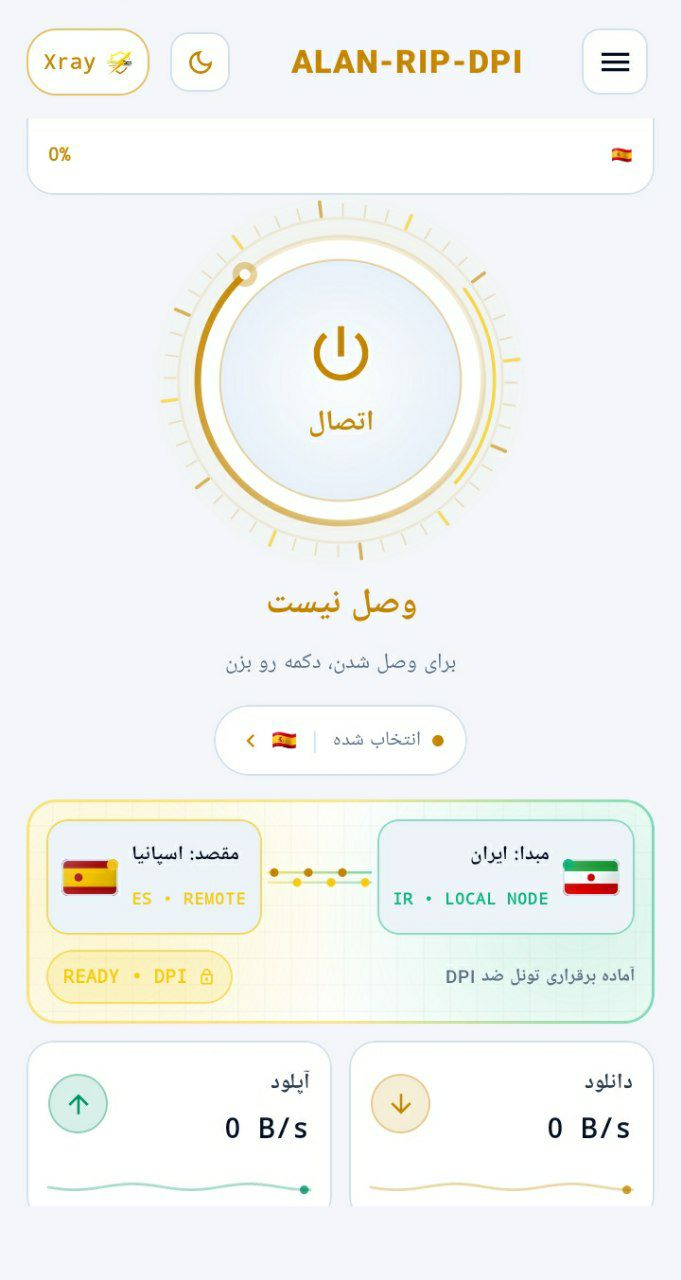
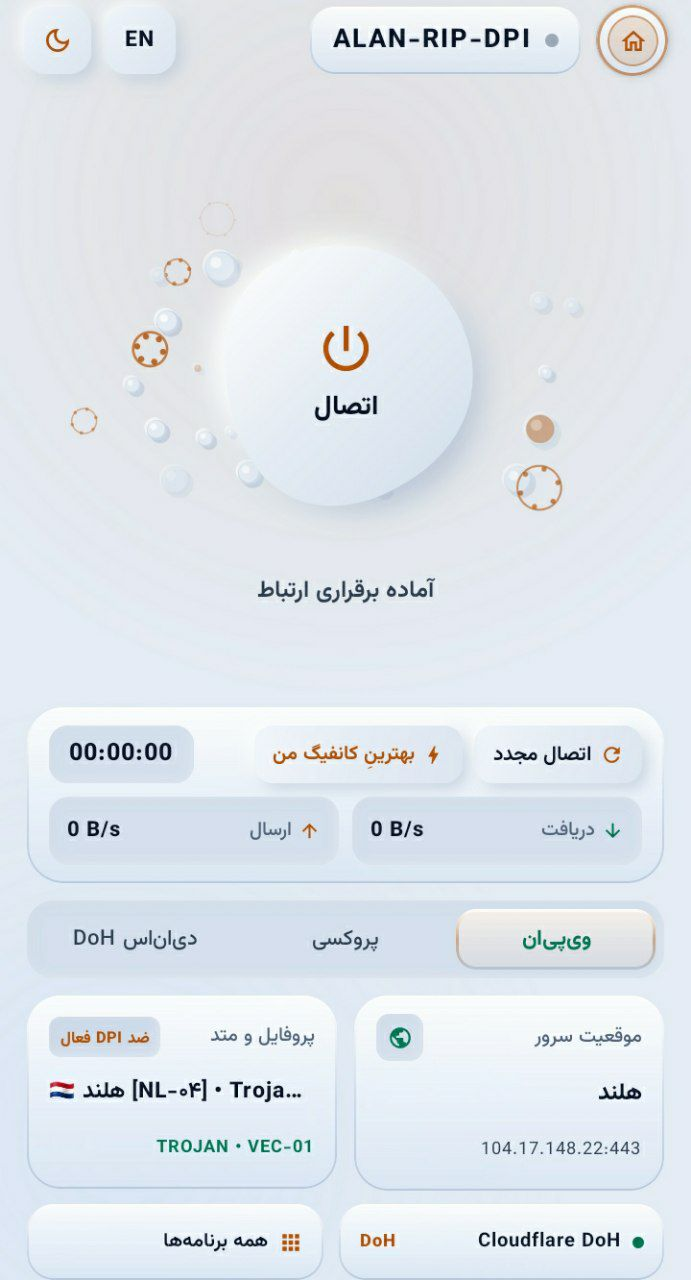
docs: update Persian README to v1.9.0 and refresh Dark/Light screenshots

diff --git a/README.md b/README.md
@@ -4,13 +4,13 @@
 
 **کلاینت بومی و مهندسیشده اندروید جهت دور زدن بازرسی عمیق بسته (DPI)، اسکن هوشمند DoH و مدیریت پیشرفته تونل شبکه**
 
-![Version](https://img.shields.io/badge/version-v1.5.1-blue.svg?style=flat-square)
-![Platform](https://img.shields.io/badge/platform-Android%208.0%2B-3DDC84.svg?style=flat-square&logo=android&logoColor=white)
+![Version](https://img.shields.io/badge/version-v1.9.0-blue.svg?style=flat-square)
+![Platform](https://img.shields.io/badge/platform-Android%207.0%2B-3DDC84.svg?style=flat-square&logo=android&logoColor=white)
 ![Kotlin](https://img.shields.io/badge/kotlin-Jetpack%20Compose%20%2B%20JNI-7F52FF.svg?style=flat-square&logo=kotlin&logoColor=white)
 ![Core](https://img.shields.io/badge/core-Xray%20v26%20%2B%20libalan--oob-D4AF37.svg?style=flat-square)
 ![License](https://img.shields.io/badge/license-MIT-green.svg?style=flat-square)
 
-[**دانلود فایل نصبی APK (Releases)**](../../releases) · [**گزارش باگ و پیشنهاد**](../../issues) · [**کانال تلگرام (@LabAlan)**](https://t.me/LabAlan)
+[**دانلود فایل نصبی APK (Releases)**](../../releases) · [**نسخه ویندوز**](https://github.com/DrAlanK/Alan-RIP-Dpi-Windows) · [**گزارش باگ و پیشنهاد**](../../issues) · [**کانال تلگرام (@LabAlan)**](https://t.me/LabAlan)
 
 <br>
 
@@ -19,12 +19,12 @@
     <td align="center" width="50%">
       <img src="assets/AlanRIPDpi-Dark.jpg" alt="Alan-RIP-Dpi Dark Mode" width="320">
       <br>
-      <sub><b>نمای پوسته تاریک نئومورفیک (Dark Theme)</b></sub>
+      <sub><b>نمای پوسته تاریک هیبریدی (Liquid Glass + Neumorphism)</b></sub>
     </td>
     <td align="center" width="50%">
       <img src="assets/AlanRIPDpi-Light.jpg" alt="Alan-RIP-Dpi Light Mode" width="320">
       <br>
-      <sub><b>نمای پوسته روشن نئومورفیک (Light Theme)</b></sub>
+      <sub><b>نمای پوسته روشن هیبریدی (Liquid Glass + Neumorphism)</b></sub>
     </td>
   </tr>
 </table>
@@ -39,13 +39,13 @@
 
 | ردیف | بخش | شرح محتوا |
 | :--- | :--- | :--- |
-| **۱** | [معرفی اجمالی](#sec-intro) | معماری بومی اندروید، ۲۴ بردار چندریختی ضد DPI، موتور ۶ مسیره موازی و هسته DoH |
-| **۲** | [قابلیتهای کلیدی](#sec-features) | مشخصات فنی، رابط کاربری نئومورفیک، مدیریت اشتراکها، QR، رادار IP تمیز و اسکنر DoH |
-| **۳** | [دانلود و نصب سریع](#sec-quickstart) | راهنمای دریافت فایل APK متناسب با پردازنده، مجوزها و برقراری اتصال هوشمند |
-| **۴** | [ساخت از سورس](#sec-build) | پیشنیازهای Android SDK، کامپایل با Gradle و تولید خودکار خروجیهای APK |
-| **۵** | [پرسشهای رایج و رفع مشکل](#sec-faq) | بهینهسازی باتری در پسزمینه، رفع اختلال DNS اپراتورها با DoH و عیبیابی |
+| **۱** | [معرفی اجمالی](#sec-intro) | معماری بومی اندروید، ۲۹ بردار چندریختی ضد DPI، بهینهسازی سختافزار و نگهبان حافظه |
+| **۲** | [قابلیتهای کلیدی](#sec-features) | رابط هیبریدی شیشهای-نئومورفیک، حالت پروکسی خالص، مسیریابی و DNS، اسکنر چندهدفه و خروجی لاگ |
+| **۳** | [دانلود و نصب سریع](#sec-quickstart) | راهنمای دریافت فایل APK متناسب با پردازنده، امضای رلیز و برقراری اتصال هوشمند |
+| **۴** | [ساخت از سورس](#sec-build) | پیشنیازهای Android SDK، کامپایل با Gradle و تولید خودکار هر ۴ خروجی APK |
+| **۵** | [پرسشهای رایج و رفع مشکل](#sec-faq) | پنل مخفی سختافزار، پیام Play Protect، بهینهسازی باتری و رفع اختلال DNS |
 | **۶** | [قدردانی و مشارکتکنندگان](#sec-ack) | تقدیر از همکاریهای فنی و پروژههای زیرساختی متنباز |
-| **۷** | [مجوز انتشار و راههای ارتباطی](#sec-license) | قوانین کپیرایت، شرایط انتشار MIT و کانال رسمی تلگرام |
+| **۷** | [مجوز انتشار و راههای ارتباطی](#sec-license) | قوانین کپیرایت، شرایط انتشار MIT، نسخه ویندوز و کانال رسمی تلگرام |
 
 </div>
 
@@ -56,24 +56,25 @@
 
 ## ۱. معرفی اجمالی
 
-پروژه **Alan-RIP-Dpi Android** نسخه بومی (Native) و بهینهشده کلاینت ضد فیلترینگ آلن برای سیستمعامل اندروید است که با زبان **Kotlin**، فریمورک **Jetpack Compose**، کتابخانه بومی سطح کرنل (`libalan-oob.so`) و بر پایه هسته قدرتمند **Xray-core v26** توسعه یافته است. هدف اصلی این نرمافزار، ارائه یک اتصال پایدار، سریع و مقاوم در برابر اختلالات شدید شبکههای موبایل (همراه اول، ایرانسل، رایتل، مبیننت) و اینترنتهای خانگی بدون نیاز به درگیری کاربر با تنظیمات پیچیده فنی است.
+پروژه **Alan-RIP-Dpi Android** نسخه بومی (Native) و بهینهشده کلاینت ضد فیلترینگ آلن برای سیستمعامل اندروید است که با زبان **Kotlin**، فریمورک **Jetpack Compose**، کتابخانه بومی سطح کرنل (`libalan-oob.so`) و بر پایه هسته قدرتمند **Xray-core v26** توسعه یافته است. هدف اصلی این نرمافزار، ارائه یک اتصال پایدار، کممصرف و مقاوم در برابر اختلالات شدید شبکههای موبایل (همراه اول، ایرانسل، رایتل، مبیننت) و اینترنتهای خانگی بدون درگیر کردن کاربر با تنظیمات پیچیده فنی است.
 
-نقطه تمایز بنیادین این نرمافزار، ترکیب **۲۴ بردار چندریختی (Polymorphic Vectors) در لایه سوکت و تقطیع بستههای TLS** با **موتور مسابقه موازی ۶ مسیره (6-Lane Parallel Engine)** است؛ به گونهای که برخلاف کلاینتهای متداول که بردارها را به صورت تکبهتک تست میکنند یا در برابر فیلترینگ پویا دچار فریز شدن ترافیک (`Session Freeze` / `SocketTimeoutException`) میشوند، این موتور ۶ کانال مستقل را به صورت همزمان در یک هسته واحد ارزیابی کرده و با تزریق خودکار `TCP-DNS` و پالسهای نگهدارنده نشست، تونلی پیوسته و بدون افت سرعت ایجاد میکند.
+نقطه تمایز بنیادین نسخه **`v1.9.0`**، همگامسازی کامل با هسته ویندوز در قالب **۲۹ بردار چندریختی ضد DPI (`VEC-00` تا `VEC-28`)**، **موتور مسابقه موازی ۶ مسیره (6-Lane Parallel Engine)** با تستر واقعی دانلود/آپلود، **معماری بهینهشده کممصرف** و **نگهبان خودکار ۲۰ دقیقهای ضد نشتی حافظه (`AlanMemoryGuard`)** است؛ به گونهای که تونل در استفادههای طولانیمدت بدون افت سرعت، بدون داغ شدن دستگاه و بدون کرش پایدار میماند.
 
 **ارکان مهندسی معماری نرمافزار:**
-1. **موتور ۲۴ بردار چندریختی و پل تمامدوطرفه (`FullDuplexMutatorBridge`):** بهرهگیری همزمان از تکنیکهای `Zero-OOB` (برش چندگانه رکوردهای TLS و فرگمنت تطبیقی برای عبور از سرورهای حساس مانند Railway و CDN) و تزریق بایتهای خارج از باند (`MSG_OOB` از طریق JNI بومی `libalan-oob.so`) جهت عبور بینقص دستدهی `TLS 1.3 ClientHello` و پنهانسازی `SNI` از دید تجهیزات DPI.
-2. **موتور تصمیمگیرنده موازی ۶ مسیره (`6-Lane AutoPilot Engine`):** ارزیابی همزمان ۶ بردار و سرور بر روی پورتهای ایزوله با تست سریع `1-RTT HTTP Probe` از درون تونل رمزنگاریشده، پشتیبانی از انتخاب لوکیشن هدف از ریپازیتوری ابری گیتهاب و قفل کردن سریعترین مسیر در کسری از ثانیه.
-3. **موتور اختصاصی اسکن و اعمال دیاناس امن (`AlanDohEngine / DNSveil`):** اسکن موازی دهها سرور `DoH (DNS-over-HTTPS)` با پشتیبانی از فرمت باینری `RFC 8484 Wire` و `JSON` برای دور زدن مسمومیت DNS اپراتورها و امکان فعالسازی حالت مستقل `دیاناس DoH` بدون نیاز به سرور واسط.
-4. **سرویس شبکه سراسری ضد حلقه (`Loop-Immune Android VpnService`):** هدایت یکپارچه ترافیک TCP و UDP اپلیکیشنها از طریق رابط بومی `libhev-socks5-tunnel.so` همراه با جداسازی کامل پردازشهای خود برنامه (`addDisallowedApplication`) و مبدل داخلی `dns-out` برای تضمین جریان فوری دانلود و آپلود روی کانفیگهای WebSocket و CDN.
-5. **رابط کاربری نئومورفیک اصیل (Pure Borderless Neumorphism):** طراحی سهبعدی لمسی با تایپوگرافی رسمی **وزیرمتن (`Vazirmatn`)**، گوی اتصال مورفینگ زنده با ذرات مداری سهبعدی، چیدمان Bento در صفحه خانه و پشتیبانی آنی از دو پوسته تاریک (`#1E232E`) و روشن (`#E6ECF5`).
+1. **موتور ۲۹ بردار چندریختی و پل تمامدوطرفه (`FullDuplexMutatorBridge`):** مجهز به ۵ بردار نسل جدید (`VEC-24` تا `VEC-28`) برای عبور از سیاهچاله PMTU گیتویهای استانی (`<=1140B`) و محدودیت قطع جریان ۱۶ کیلوبایتی (`<=880B`)، ترکیب تکنیکهای `Zero-OOB` و `MSG_OOB` (`libalan-oob.so`)، بافرپول ۳۲ کیلوبایتی بدون فشار GC، تنظیم `TUN MTU=1360` / `TCP_MAXSEG=1220` و انتقال سریع Bulk پس از عبور از پنجره ۶۴ کیلوبایتی DPI.
+2. **موتور تصمیمگیرنده موازی ۶ مسیره با تستر واقعی پهنای باند:** ارزیابی همزمان ۶ بردار و سرور روی پورتهای ایزوله با تست پیوسته دانلود (`160KB`) و آپلود (`192KB`) جهت حذف پینگهای کاذب، انتخاب لوکیشن از مخزن ابری گیتهاب و قفل خودکار سریعترین مسیر.
+3. **نگهبان خودکار ضد نشتی حافظه (`AlanMemoryGuard`) و بهینهسازی سختافزار:** پایش دورهای هر **۲۰ دقیقه** (قابل تنظیم از ۱۰ تا ۶۰ دقیقه) و واکنش خودکار در شرایط فشار حافظه بدون کرش و بدون قطع VPN (هرس کش DNS، بافرپول، لاگهای اضافه و سوکتهای مرده)، تنظیم هسته Go روی `GOMAXPROCS=2` و `GOGC=150`، توقف کامل رندر انیمیشن UI در پسزمینه (`Lifecycle.State.RESUMED`) و Watchdog هوشمند غیرفعال هنگام عبور ترافیک کاربر.
+4. **موتور مسیریابی پیشرفته، DNS و اسکنر DoH (`AlanDohEngine / DNSveil`):** اسکن موازی سرورهای `DoH (RFC 8484 / JSON)`، تنظیمات مجزای `Remote / Domestic / Fallback DNS`، حالتهای مسیریابی (`دور زدن ایران` / `دور زدن LAN` / `سراسری`)، مسدودسازی تبلیغات (`AdBlock`) و `QUIC (UDP 443)` و ورود مستقیم لیست دامنه/آیپی بایپس از فایل `.txt`.
+5. **رابط کاربری هیبریدی (Liquid Glass + Pure Tactile Neumorphism):** ترکیب کارتهای شیشهای مات با دکمه اتصال نئومورفیک و حبابهای سهبعدی با سرعت پویا در هر وضعیت، دکمه شیشهای معلق با **جایگاه مگنتی در گوشه بالا** و سایدبار شیشهای قابل جابهجایی و تغییر طول، همراه با فونت رسمی **وزیرمتن (`Vazirmatn`)** و دو پوسته تاریک و روشن.
 
-| مشخصه فنی | پیادهسازی در Alan-RIP-Dpi Android (v1.5.1) |
+| مشخصه فنی | پیادهسازی در Alan-RIP-Dpi Android (v1.9.0) |
 | :--- | :--- |
-| **تکنولوژی توسعه و رابط کاربری** | Native Kotlin + Jetpack Compose + Pure Tactile Neumorphism (فونت وزیرمتن) |
-| **هسته مرکزی تونل و کتابخانههای بومی** | Xray-core v26.10.29 + `libalan-oob.so` (JNI) + `libhev-socks5-tunnel.so` |
-| **موتور ضد DPI و تصمیمگیری** | ۲۴ بردار چندریختی (`VEC-00` تا `VEC-23`) + موتور مسابقه موازی ۶ مسیره |
-| **زیرساخت DNS و کشف لبه** | موتور `AlanDohEngine` (DNSveil) + اسکنر چندسابنتی IP تمیز کلادفلر + `dns-out` (TCP-DNS) |
-| **لایه شبکه مجازی سیستمعامل** | Android Native `VpnService` (TUN Interface بدون نیاز به Root با محافظت در برابر حلقه) |
+| **تکنولوژی توسعه و رابط کاربری** | Native Kotlin + Jetpack Compose + Hybrid Liquid Glass & Neumorphism (فونت وزیرمتن) |
+| **هسته مرکزی و کتابخانههای بومی** | Xray-core v26 (`GOMAXPROCS=2`, `GOGC=150`) + `libalan-oob.so` + `libhev-socks5-tunnel.so` |
+| **موتور ضد DPI و تستر ترافیک** | ۲۹ بردار چندریختی (`VEC-00` تا `VEC-28`) + موتور ۶ مسیره با تست واقعی دانلود/آپلود |
+| **پروتکلهای پشتیبانیشده** | `VLESS`, `VMess`, `Trojan`, `Shadowsocks`, `SOCKS5/4`, `AnyConnect`, `IKEv2`, `L2TP` |
+| **مسیریابی، DNS و پایداری** | Routing/DNS کامل + ورود فایل بایپس `.txt` + `AlanDohEngine` + نگهبان ۲۰ دقیقهای حافظه |
+| **حالتهای شبکه** | تونل کامل `VpnService` (با تفکیک برنامهها) + حالت پروکسی خالص (بدون `VpnService`) + `DoH Veil` |
 
 </div>
 
@@ -84,19 +85,27 @@
 
 ## ۲. قابلیتهای کلیدی
 
-- **سه حالت عملیاتی مستقل (`ویپیان` | `پروکسی` | `دیاناس DoH`):** امکان سوییچ آنی در صفحه اصلی بین تونل کامل سراسری (`VPN`)، حالت پروکسی محلی (`SOCKS5 / HTTP`) و حالت خالص `DoH-Veil` (رفع اختلال DNS و بازگشایی سرویسهای مسدودشده با ترکیب DoH سالم و فرگمنت بدون نیاز به سرور VPN).
-- **انتخابگر هوشمند لوکیشن در حالت خودکار:** اتصال مستقیم به مخزن ابری گیتهاب کاملاً مجزا از کانفیگهای شخصی، همراه با دریافت گزارش زنده اسکن (`Alan-RIP-Dpi-Report.json`) و امکان انتخاب کشور مقصد یا حالت «سریعترین لوکیشن» از منوی صفحه خانه.
-- **مدیریت پیشرفته کانفیگها و اشتراکها به سبک استاندارد v2rayNG:**
-  - تفکیک و دستهبندی خودکار کانفیگها بر اساس **گروه سابسکریپشن (`Subscription Groups`)** و کانفیگهای دستی.
-  - پشتیبانی کامل از **اسکن کد QR با دوربین**، **خواندن کد QR از تصاویر گالری** و تولید کد QR قابل اشتراکگذاری برای هر پروفایل (مبتنی بر موتور `ZXing`).
-  - نمایش دقیق مشخصات فنی هر نود (`VLESS / VMess / Trojan / SS`، بستر `ws / grpc / tcp / httpupgrade / xhttp`، لایه امنیتی `tls / reality` و بردار ضد DPI).
-  - قابلیت انتخاب چندتایی (`Multi-Select`)، حذف نودهای تبلیغاتی/اطلاعیه سابسکریپشنها، پینگ واقعی تونل (`Real-Ping`) و ارسال یکجای کل مخزن به آزمایشگاه DPI.
-- **آزمایشگاه موازی متد ضد DPI (`6-Lane DPI Lab`):** تست هوشمند و همزمان ۲۴ بردار ضد فیلتر بر روی یک کانفیگ، چند کانفیگ انتخابی یا کل مخزن، همراه با قابلیت تزریق خودکار IP تمیز کلادفلر برای دامنههای `.pages.dev` و `.workers.dev` و قفل مستقیم متد برنده.
-- **رادار IP تمیز کلادفلر و اسکنر DoH (`DNSveil`):**
-  - اسکن فوقسریع سابنتهای کلادفلر (از مخزن گیتهاب، ۲۲ سابنت پیشفرض یا رنج CIDR دلخواه) و ساخت کلونهای متعدد روی کانفیگها.
-  - اسکن موازی بیش از ۲۰ سرور معتبر جهانی و داخلی DoH، سنجش پینگ و صحت آیپی برگشتی روی دامنههای هدف (`github.com`، `youtube.com` و...)، امکان افزودن مخزن DoH سفارشی و اعمال مستقیم روی شبکه.
-- **پایداری ویژه شبکههای موبایل و حذف تایماوت نشست:** مجهز به مکانیزم `soTimeout = 0` پس از دستدهی اولیه، پالس `heartbeatPeriod = 20` در لایه WebSocket و پایشگر خودترمیمگر ۱۸ ثانیهای (`Self-Healing Watchdog`) برای جلوگیری از قطع شدن ارتباط در استفادههای طولانیمدت.
-- **کنسول لاگ عمیق مهندسی (`Deep Diagnostic Console`):** ثبت لحظهای جزئیات سطح پکت شامل سایز رکوردهای `TLS ClientHello`، عملکرد پل `DPI-BRIDGE`، رزولوشن `DNS / DoH`، انتخاب `Clean-IP` و رویدادهای هسته `Xray` با قابلیت فیلتر بر اساس دستهبندی و جستجوی متنی.
+- **سه حالت عملیاتی مستقل (`ویپیان` | `پروکسی` | `دیاناس DoH`):**
+  - **حالت ویپیان (`AlanTUN`):** تونل سراسری با `TUN MTU=1360` و **تفکیک دائمی برنامهها (`Per-App Proxy`)** در سه حالت همه برنامهها، فقط انتخابیها (`Include`) و مستثنیکردن (`Exclude`).
+  - **حالت پروکسی خالص (`Proxy-Only`):** بدون فراخوانی `VpnService` اندروید؛ ترافیک مستقیماً روی پورتهای محلی `SOCKS5` و `HTTP` نمایشدادهشده در دسترس قرار میگیرد.
+  - **حالت مستقل `دیاناس DoH`:** دور زدن مسمومیت DNS اپراتورها با اسکن و قفل سالمترین سرور DoH.
+- **رابط کاربری هیبریدی شیشهای-نئومورفیک و منوی مگنتی:**
+  - دکمه اتصال با **حبابهای سهبعدی با سرعت پویا** متناسب با وضعیت (آماده، در حال اتصال، متصل، در حال قطع) و انتقال نرم `در حال قطع اتصال...`.
+  - دکمه شیشهای معلق با **جایگاه مگنتی کنار `ALAN-RIP-DPI`**؛ با کشیدن در کل صفحه جابهجا میشود، با نزدیک شدن به گوشه بالا در جایش قفل میشود و در حالت باز، طول (ارتفاع) آن با دستگیره پایینی قابل تغییر است و تا لمس `✕` باز میماند.
+- **لیست کانفیگها به سبک ساده و بهینه `v2rayNG`:**
+  - کارتهای نئومورفیک خلوت و سریع با نوار رنگی انتخاب، تست پینگ فوری با لمس مستقیم عدد پینگ و تفکیک خودکار گروههای اشتراک (`Subscription Groups`).
+  - پشتیبانی کامل از **اسکن QR با دوربین و گالری**، تولید QR اشتراکگذاری، انتخاب چندتایی (`Multi-Select`) و ارسال مستقیم کانفیگهای انتخابشده به اسکنر متد.
+- **آزمایشگاه موازی متد ضد DPI با انتخاب چند کانفیگ دلخواه:**
+  - امکان انتخاب تکی، **انتخاب چند کانفیگ دلخواه از مخزن**، **ورود مستقیم لینکهای دلخواه به صف اسکنر** یا اسکن کل مخزن.
+  - منوی کشویی زیبا (`ModalBottomSheet`) برای انتخاب تکی/چندتایی متدها (۵ متد جدید، بدون OOB یا همه ۲۹ متد) همراه با دکمه اسکن نئومورفیک و وضعیت پویا پس از اتصال/قطع اتصال.
+- **تنظیمات کامل مسیریابی (Routing)، DNS و ورود لیست بایپس از فایل:**
+  - حالتهای `دور زدن ایران و LAN`، `فقط LAN` و `سراسری`، انتخاب `DomainStrategy`، مسدودسازی تبلیغات (`AdBlock`)، مسدودسازی `QUIC (UDP 443)` و کنترل `Sniffing`.
+  - تنظیم سرورهای `Remote DNS`، `DNS داخلی ایران`، `Fallback DNS`، استراتژی IPv4/IPv6 و **ورود لیست دامنهها و IPهای Direct (بایپس)، Proxy و Block از فایل `.txt`**.
+- **پنل مخفی مدیریت سختافزار و نشتی حافظه:**
+  - با **۵ بار ضربه روی لوگوی `ALAN-RIP-DPI`** در نوار بالا باز میشود و مصرف لحظهای CPU، Java Heap، Total RSS، تعداد File Descriptorهای باز، Threadها، دما/جریان باتری، زمان چک ۲۰ دقیقهای بعدی و دکمه پاکسازی و `GC` فوری را نمایش میدهد.
+- **کنترل پنل زنده نوتیفیکیشن و کنسول لاگ با خروجی فایل (`.log`):**
+  - نمایش لحظهای سرعت دانلود/آپلود و نام کانفیگ در نوتیفیکیشن همراه با دکمههای سریع **قطع اتصال**، **اتصال مجدد** و **بهترین سرور**.
+  - کنسول لاگ دستهبندیشده (شبکه، Xray، DNS/حافظه، متد/تست، خطاها) با جستجو و **ذخیره مستقیم کل لاگها به صورت فایل `.log`**.
 
 </div>
 
@@ -109,13 +118,14 @@
 
 برای نصب و راهاندازی سریع برنامه بر روی گوشی یا تبلت اندرویدی خود، مراحل زیر را دنبال کنید:
 
-1. وارد بخش [Releases](../../releases) در همین مخزن شوید و آخرین نسخه فایل نصبی متناسب با معماری پردازنده دستگاه خود را دانلود نمایید:
-   - **`Alan-RIP-Dpi-v1.5.1-arm64-v8a-release.apk`**: مناسب اکثر گوشیهای جدید و ۶۴ بیتی *(نسخه پیشنهادی و کمحجم)*
-   - **`Alan-RIP-Dpi-v1.5.1-armeabi-v7a-release.apk`**: مناسب گوشیهای قدیمیتر ۳۲ بیتی
-   - **`Alan-RIP-Dpi-v1.5.1-universal-release.apk`**: نسخه کامل شامل تمام معماریهای پردازنده (`arm64`, `armv7`, `x86_64`)
-2. فایل APK دانلودشده را نصب کرده و برنامه **Alan-RIP-Dpi** را اجرا کنید.
-3. از بخش پایینی صفحه اصلی، میتوانید در کاشی **«موقعیت سرور»** لوکیشن دلخواه ریپازیتوری خودکار را انتخاب کنید، یا از کاشی **«پروفایل و متد»** یکی از کانفیگهای شخصی خود را برگزینید.
-4. گوی بزرگ **اتصال** در مرکز صفحه را لمس کنید. در اولین اجرا، مجوز ایجاد اتصال شبکه (`VpnService`) را در پنجره سیستمعامل اندروید تایید نمایید تا تونل ضد DPI فعال شود.
+1. وارد بخش [Releases](../../releases) در همین مخزن شوید و فایل نصبی متناسب با معماری پردازنده دستگاه خود را دانلود نمایید:
+   - **`Alan-RIP-Dpi-v1.9.0-arm64-v8a-release.apk`**: مناسب اکثر گوشیهای جدید و ۶۴ بیتی *(نسخه پیشنهادی و کمحجم)*
+   - **`Alan-RIP-Dpi-v1.9.0-armeabi-v7a-release.apk`**: مناسب گوشیهای قدیمیتر ۳۲ بیتی
+   - **`Alan-RIP-Dpi-v1.9.0-x86_64-release.apk`**: مناسب شبیهسازها و تبلتهای x86_64
+   - **`Alan-RIP-Dpi-v1.9.0-universal-release.apk`**: نسخه جامع شامل تمام معماریهای پردازنده
+2. فایل APK دانلودشده را نصب کرده و برنامه **Alan-RIP-Dpi** را اجرا کنید. *(اگر از نسخههای `v1.8.0` یا قدیمیتر آپدیت میکنید، به دلیل مهاجرت به کلید امضای رلیز اختصاصی، یکبار نسخه قبلی را حذف و سپس این نسخه را نصب کنید.)*
+3. از بخش پایینی صفحه اصلی، میتوانید حالت عملکرد (`ویپیان`، `پروکسی` یا `دیاناس DoH`)، کاشی **«موقعیت سرور»** یا کاشی **«پروفایل و متد»** را انتخاب کنید.
+4. گوی بزرگ **اتصال** در مرکز صفحه را لمس کنید. در حالت ویپیان، مجوز `VpnService` اندروید را تایید نمایید تا تونل ضد DPI فعال شود.
 
 </div>
 
@@ -129,7 +139,7 @@
 جهت کامپایل پروژه و تولید فایلهای اجرایی APK مستقیماً از روی سورسکد، رعایت پیشنیازهای زیر الزامی است:
 
 - محیط توسعه **Android Studio** (نسخه Ladybug یا جدیدتر) و **Android SDK (API 35)**
-- کیت توسعه جاوا **JDK 17** یا بالاتر
+- کیت توسعه جاوا **JDK 17** یا **JDK 21** *(توصیهشده برای Gradle 8.10.2)*
 - ابزار Git
 
 **مراحل کلون کردن مخزن و بیلد از طریق خط فرمان (Gradle Wrapper):**
@@ -138,55 +148,79 @@
 
 ```bash
 # 1. کلون کردن مخزن رسمی نسخه اندروید
-git clone [https://github.com/DrAlanK/Alan-RIP-Dpi-Android.git](https://github.com/DrAlanK/Alan-RIP-Dpi-Android.git)
+git clone https://github.com/DrAlanK/Alan-RIP-Dpi-Android.git
 cd Alan-RIP-Dpi-Android
 
 # 2. ساخت نسخه Debug جهت تست و توسعه (در ویندوز از gradlew.bat استفاده کنید)
 ./gradlew assembleDebug
 
-# 3. ساخت نسخه نهایی Release (تولید خودکار APKهای تفکیکشده بر اساس معماری و نسخه)
+# 3. ساخت نسخه نهایی Release (تولید خودکار هر ۴ APK تفکیکشده بر اساس معماری)
 ./gradlew assembleRelease
-
 ```
 
-پس از اتمام موفقیتآمیز عملیات کامپایل، فایلهای نصبی خروجی با نامگذاری استاندارد `Alan-RIP-Dpi-v1.5.1-*.apk` در مسیر `app/build/outputs/apk/release/` قابل بهرهبرداری خواهند بود.
+<div dir="rtl">
+
+پس از اتمام موفقیتآمیز عملیات کامپایل، فایلهای نصبی خروجی در مسیر `app/build/outputs/apk/release/` قابل بهرهبرداری خواهند بود.
+
+</div>
 
 ---
+
+<a id="sec-faq"></a>
+<div dir="rtl">
 
 ## ۵. پرسشهای رایج و رفع مشکل (FAQ)
 
-* **۱. چرا پس از خاموش شدن صفحه گوشی یا گذشت چند دقیقه، اتصال در پسزمینه متوقف میشود؟**
-رابطهای کاربری برخی سازندگان (مانند MIUI/HyperOS شیائومی یا OneUI سامسونگ) سرویسهای پسزمینه را برای ذخیره باتری متوقف میکنند. وارد تنظیمات برنامه در گوشی (`App Info > Battery`) شوید و وضعیت مصرف باتری Alan-RIP-Dpi را روی گزینه **بدون محدودیت (Unrestricted)** قرار دهید.
-* **۲. در اینترنت مبیننت یا همراه اول اختلال شدید DNS وجود دارد؛ چگونه بهترین DoH را پیدا و فعال کنیم؟**
-از منوی برنامه وارد بخش **«اسکنر IP تمیز»** شده و تب **«اسکنر و تنظیم DoH (DNSveil)»** را انتخاب کنید (یا در صفحه اصلی روی نوار «دیاناس امن» ضربه بزنید). دکمه **اسکن DoH** را بزنید تا سالمترین و سریعترین سرور DoH روی اینترنت فعلی شما پیدا و به صورت خودکار قفل شود.
-* **۳. کانفیگهای مبتنی بر کلادفلر (`.pages.dev` / `.workers.dev`) چگونه روی اینترنتهای مسدود متصل میشوند؟**
-موتور برنامه به صورت خودکار دامنههای کلادفلر و CDN را تشخیص داده و پیش از شروع دستدهی TLS، آیپی پیشفرض مسدودشده را با بهترین **IP تمیز لبه کلادفلر** جایگزین میکند. همچنین در بخش «اسکنر متد» میتوانید کل مخزن خود را با گزینه تزریق IP تمیز اسکن کنید.
-* **۴. چگونه میتوان پوسته برنامه را بین حالت شب و روز تغییر داد؟**
-از طریق دکمه نئومورفیک خورشید/ماه که در گوشه چپ نوار بالایی صفحه اصلی تعبیه شده است، میتوانید بدون قطع شدن تونل در لحظه بین پوسته تاریک و روشن جابهجا شوید.
+- **۱. هنگام نصب، پیام «سپر ایمنی Google Play قبلاً برنامهای از این توسعهدهنده ندیده است» نمایش داده میشود؛ چه کار کنم؟**
+  این پیام به معنای وجود ویروس نیست؛ بلکه چون برنامه خارج از گوگلپلی و با کلید امضای اختصاصی جدید منتشر شده، گوگل این امضا را در ابتدای انتشار نمیشناسد. بدون نیاز به خاموش کردن سپر ایمنی، کافی است در همان پنجره روی گزینه **«درهرحال نصب شود» (Install anyway)** ضربه بزنید.
+- **۲. چگونه مصرف واقعی CPU، رم و سلامت حافظه برنامه را بررسی کنیم؟**
+  روی نشان **`ALAN-RIP-DPI`** در نوار بالای صفحه **۵ بار پشت سر هم** ضربه بزنید تا **پنل مخفی مدیریت سختافزار و نگهبان حافظه** باز شود. در این پنل میتوانید مصرف زنده CPU، Java Heap، RSS، Open FDs، تعداد تردها، وضعیت چک ۲۰ دقیقهای و دکمه `پاکسازی و GC فوری` را مشاهده کنید.
+- **۳. چرا پس از خاموش شدن صفحه گوشی یا گذشت چند دقیقه، اتصال در پسزمینه متوقف میشود؟**
+  رابطهای کاربری برخی سازندگان (مانند MIUI/HyperOS شیائومی یا OneUI سامسونگ) سرویسهای پسزمینه را برای ذخیره باتری متوقف میکنند. وارد تنظیمات برنامه در گوشی (`App Info > Battery`) شوید و وضعیت مصرف باتری Alan-RIP-Dpi را روی گزینه **بدون محدودیت (Unrestricted)** قرار دهید.
+- **۴. چگونه لیست دامنهها یا IPهای بایپس را یکجا از فایل وارد کنیم؟**
+  از منوی شیشهای وارد تب **Xray** شوید و به بخش **«مسیریابی (Routing) و بایپس دامنه/IP»** بروید. کنار هر یک از سه لیست (بایپس مستقیم، اجباری از پروکسی، مسدود) دکمه **«ورود از فایل»** قرار دارد که فایل متنی `.txt` شما را خوانده و مستقیم به قوانین مسیریابی اضافه میکند.
+- **۵. در اینترنت همراه اول یا مبیننت اختلال شدید DNS وجود دارد؛ راهحل چیست؟**
+  از منوی برنامه وارد بخش **«IP/DoH»** شده و در تب اسکنر DoH، دکمه **اسکن DoH** را بزنید تا سریعترین سرور DoH بدون مسمومیت DNS روی اینترنت فعلی شما پیدا و اعمال شود.
+
+</div>
 
 ---
+
+<a id="sec-ack"></a>
+<div dir="rtl">
 
 ## ۶. قدردانی و مشارکتکنندگان
 
 توسعه و پایداری **Alan-RIP-Dpi Android** نتیجه پژوهشهای مستمر فنی و بهرهگیری از زیرساختهای متنباز جامعه مهندسی شبکه است. بدینوسیله مراتب قدردانی رسمی ثبت میگردد:
 
-* **تقدیر ویژه از [Floxu1](https://github.com/Floxu1):** تشکر صمیمانه بابت همفکریهای مهندسی، راهنماییهای فنی ارزشمند و بهاشتراکگذاری متدهای کارآمد عبور از فیلترینگ و DPI که در بهینهسازی مکانیزمهای ارتباطی این پروژه بسیار راهگشا و الهامبخش بودهاند.
-* **پروژه [Xray-core](https://github.com/XTLS/Xray-core):** بهعنوان هسته مرکزی پردازش پروتکلهای رمزنگاری، مدیریت فرگمنت و مسیریابی ترافیک.
-* **پروژههای [DNSveil](https://github.com/msasanmh/DNSveil) ،[ZXing](https://github.com/zxing/zxing) و فونت [وزیرمتن (Vazirmatn)](https://github.com/rastikerdar/vazirmatn):** بابت ایدههای الهامبخش در اسکن DoH، پردازش بارکدهای دوبعدی و تایپوگرافی استاندارد فارسی.
+- **تقدیر ویژه از [Floxu1](https://github.com/Floxu1):** تشکر صمیمانه بابت همفکریهای مهندسی، راهنماییهای فنی ارزشمند و ایده متد ضد فیلترینگ **OOB** که در بهینهسازی مکانیزمهای عبور از DPI این پروژه بسیار راهگشا و الهامبخش بوده است.
+- **پروژههای [Xray-core](https://github.com/XTLS/Xray-core) و [hev-socks5-tunnel](https://github.com/heiher/hev-socks5-tunnel):** بهعنوان هسته مرکزی پردازش پروتکلها، مسیریابی و لایه TUN بومی اندروید.
+- **پروژههای [DNSveil](https://github.com/msasanmh/DNSveil)، [ZXing](https://github.com/zxing/zxing) و فونت [وزیرمتن (Vazirmatn)](https://github.com/rastikerdar/vazirmatn):** بابت ایدههای الهامبخش در اسکن DoH، پردازش بارکدهای دوبعدی و تایپوگرافی استاندارد فارسی.
+
+</div>
 
 ---
+
+<a id="sec-license"></a>
+<div dir="rtl">
 
 ## ۷. مجوز انتشار و راههای ارتباطی
 
-این نرمافزار تحت مجوز استاندارد **MIT License** منتشر شده است. استفاده، مطالعه، تغییر، ادغام و بازنشر کدهای این مخزن با حفظ اعلان کپیرایت و مجوز اصلی کاملاً آزاد است. متن کامل حقوقی مجوز در فایل [LICENSE](https://www.google.com/search?q=LICENSE) در ریشه مخزن قابل مشاهده است.
+این نرمافزار تحت مجوز استاندارد **MIT License** منتشر شده است. استفاده، مطالعه، تغییر، ادغام و بازنشر کدهای این مخزن با حفظ اعلان کپیرایت و مجوز اصلی کاملاً آزاد است. متن کامل حقوقی مجوز در فایل [LICENSE](LICENSE) در ریشه مخزن قابل مشاهده است.
 
-**کانال رسمی اطلاعرسانی و دریافت نسخههای جدید:**
-جهت دریافت آخرین آپدیتهای اندروید و ویندوز، نسخههای آزمایشی و ارتباط مستقیم با توسعهدهنده، به کانال رسمی تلگرام بپیوندید:
-
-* **تلگرام:** **[@LabAlan](https://t.me/LabAlan)** (`https://t.me/LabAlan`)
+**کانال رسمی اطلاعرسانی و نسخههای همراه:**
+- **کانال تلگرام:** **[@LabAlan](https://t.me/LabAlan)** (`https://t.me/LabAlan`)
+- **ریپازیتوری اندروید:** [DrAlanK/Alan-RIP-Dpi-Android](https://github.com/DrAlanK/Alan-RIP-Dpi-Android)
+- **ریپازیتوری ویندوز:** [DrAlanK/Alan-RIP-Dpi-Windows](https://github.com/DrAlanK/Alan-RIP-Dpi-Windows) ([دانلود آخرین نسخه ویندوز](https://github.com/DrAlanK/Alan-RIP-Dpi-Windows/releases/latest))
 
 > **سلب مسئولیت فنی:** این پروژه صرفاً با هدف پژوهش در زمینه مهندسی شبکه، بهینهسازی پروتکلهای انتقال داده و حفظ پایداری ارتباطات توسعه یافته است. مسئولیت نحوه بهرهبرداری از این ابزار و رعایت قوانین محلی بر عهده کاربر نهایی است.
 
+</div>
+
 ---
 
+<div align="center">
+
 Copyright © 2026 DrAlanK (LabAlan) — Released under the MIT License.
+
+</div>
